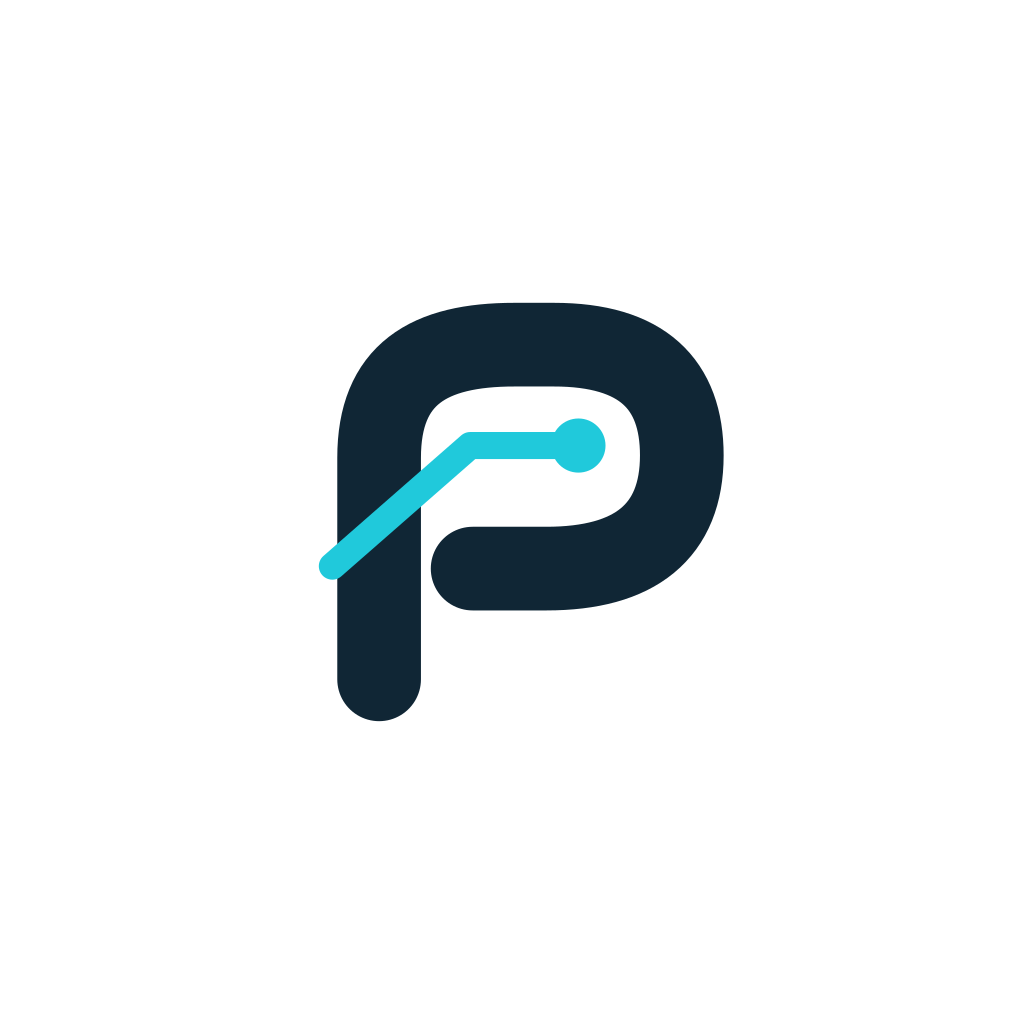
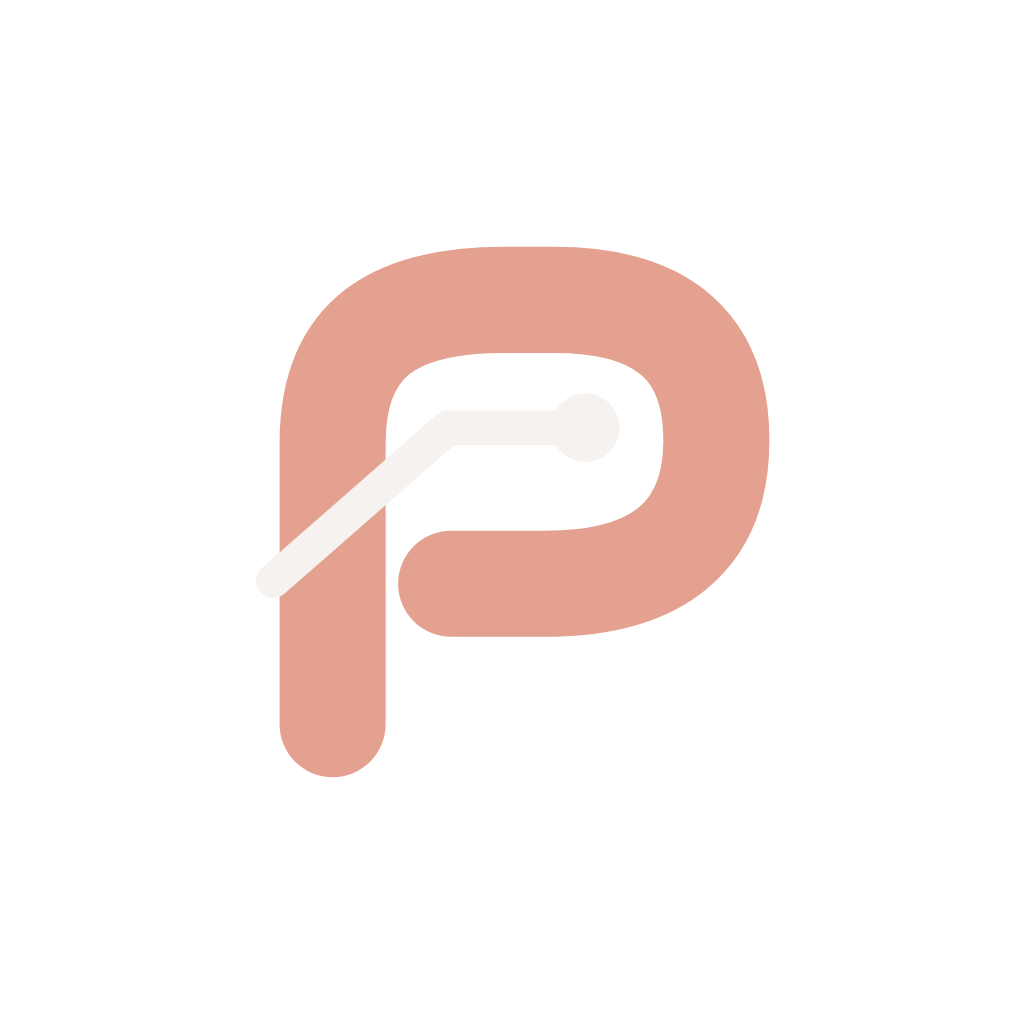
feat(brand): apply approved Porcelana palette
Porcelana (ink #202333, porcelain #F5F2EF, coral #E4A18F, deep coral
#9A4836) replaces navy/cyan, approved 2026-10-12 from the palette review.
Layout, typography, navigation and the P mark geometry are unchanged.

Tokens
- palettes: Porcelana light/dark sky, cards, accent; status colors kept
  semantic and distinct from coral (official green, stale gold, community
  teal, alert red). All card text >= 4.5:1 over every sky stop.
- brand: ink/storm/periwinkle/coral/deepCoral/porcelain; new `mark` token
  (ink tile, coral letter, porcelain spark) drives PulseMark.
- new `sheet` and `scrim` tokens replace the hardcoded quake-sheet colors.
  No hex literals remain in components.

Assets
- Recolored icon (full-bleed, opaque for iOS), splash icon, favicon,
  brandmark and both wordmarks with the same P geometry.
- Android: foreground recolored (the old navy P was invisible on its navy
  background), background #202333, monochrome themed icon restored,
  web favicon wired in app.json.

Docs
- DESIGN.md, AGENTS.md, CLAUDE.md, BRAND.md and README updated together so
  agents don't reintroduce navy/cyan; approval-required changes listed.
- Before/after screenshots in design/review/after/ (web renders, 412x915).

Verified: tsc clean, backend 26/26.

Claude-Session: https://claude.ai/code/session_015crqgdTP6nSXsm8uZjE6zx

Changed region(s): [[0.25, 0.2188, 0.75, 0.7812]]

diff --git a/src/theme/tokens.ts b/src/theme/tokens.ts
@@ -1,12 +1,23 @@
 // PanaPulse design tokens.
-// Direction: the original Hark-inspired atmosphere (rich gradient, soft translucent cards, big numerals),
-// recolored for PanaPulse: midnight navy, coastal cyan and softly atmospheric ocean light.
+// Direction: the original v0.2 atmosphere (rich gradient, soft translucent cards, big numerals) in the
+// approved "Porcelana" palette (2026-10-12): warm porcelain days, ink-to-ember evenings, deep coral accent.
+// Changing these values is a brand change and needs explicit approval (see DESIGN.md).
 // Status colors are fixed per theme and never derived from wallpaper / dynamic color.
 
 export const space = { xxs: 4, xs: 8, sm: 12, md: 16, lg: 20, xl: 24, xxl: 32 } as const;
 export const radius = { tile: 20, card: 30, pill: 999 } as const;
 
-export const brand = { navy: '#102635', cyan: '#20C9DB', porcelain: '#F9FCFD' } as const;
+export const brand = {
+  ink: '#202333',
+  storm: '#515D7C',
+  periwinkle: '#929BC5',
+  coral: '#E4A18F',
+  deepCoral: '#9A4836',
+  porcelain: '#F5F2EF',
+} as const;
+
+/** The P mark's three fills. Geometry lives in assets/brandmark.svg and components/pulse.tsx and never changes. */
+export const mark = { tile: brand.ink, letter: brand.coral, spark: brand.porcelain } as const;
 
 export const font = {
   regular: 'Manrope_400Regular',
@@ -48,55 +59,63 @@ export interface Palette {
   community: string;
   alert: string;
   unknown: string;
+  /** Bottom-sheet surface (quake detail). */
+  sheet: string;
+  /** Dim layer behind sheets and modals. */
+  scrim: string;
 }
 
 export const palettes: Record<ThemeName, Palette> = {
-  // Morning on the bay: clear sky into sea glass and warm sand.
+  // Morning in porcelain: warm off-white washing into a soft coral glow near the horizon.
   light: {
-    sky: ['#E4F3F7', '#B8DCE8', '#B9DCD9', '#EDD0C0'],
-    card: 'rgba(250,253,254,0.76)',
-    tile: 'rgba(255,255,255,0.64)',
-    tileStrong: 'rgba(255,255,255,0.90)',
-    line: 'rgba(16,38,53,0.11)',
-    ink: '#102635',
-    muted: 'rgba(16,38,53,0.67)',
-    faint: 'rgba(16,38,53,0.48)',
-    nav: 'rgba(249,252,253,0.96)',
-    navActive: '#102635',
-    navActiveInk: '#FFFFFF',
-    bubbleUser: '#102635',
-    bubbleUserInk: '#FFFFFF',
-    official: '#1E7A3E',
+    sky: ['#F5F2EF', '#EEE6E2', '#EAD3CA', '#E8B7A8'],
+    card: 'rgba(250,248,246,0.68)',
+    tile: 'rgba(250,248,246,0.70)',
+    tileStrong: 'rgba(252,250,248,0.88)',
+    line: 'rgba(32,35,51,0.09)',
+    ink: '#202333',
+    muted: 'rgba(32,35,51,0.66)',
+    faint: 'rgba(32,35,51,0.46)',
+    nav: 'rgba(247,245,243,0.95)',
+    navActive: '#202333',
+    navActiveInk: '#F5F2EF',
+    bubbleUser: '#202333',
+    bubbleUserInk: '#F5F2EF',
+    official: '#176A35',
     officialInk: '#FFFFFF',
-    stale: '#9A5B0C',
-    accent: '#087D90',
-    accentInk: '#FFFFFF',
-    community: '#5B45B8',
-    alert: '#B4372B',
-    unknown: 'rgba(16,38,53,0.62)',
+    stale: '#7D5A00',
+    accent: '#9A4836',
+    accentInk: '#F5F2EF',
+    community: '#0D6B64',
+    alert: '#A8322A',
+    unknown: 'rgba(32,35,51,0.58)',
+    sheet: '#EDE6E1',
+    scrim: 'rgba(32,35,51,0.45)',
   },
-  // Evening on the bay: navy into ocean and teal, city lights on a warm horizon.
+  // Evening: midnight ink into dusk plum, with an ember horizon.
   dark: {
-    sky: ['#102635', '#1A4661', '#2E6D7D', '#C38E86'],
-    card: 'rgba(12,31,46,0.82)',
-    tile: 'rgba(67,116,136,0.37)',
-    tileStrong: 'rgba(82,133,153,0.52)',
-    line: 'rgba(255,255,255,0.08)',
-    ink: '#F3F5FB',
-    muted: 'rgba(228,232,246,0.66)',
-    faint: 'rgba(228,232,246,0.44)',
-    nav: 'rgba(8,27,41,0.96)',
-    navActive: '#F9FCFD',
-    navActiveInk: '#102635',
-    bubbleUser: '#F9FCFD',
-    bubbleUserInk: '#102635',
+    sky: ['#202333', '#2A2B3F', '#463F55', '#B67F71'],
+    card: 'rgba(32,32,47,0.84)',
+    tile: 'rgba(150,130,150,0.24)',
+    tileStrong: 'rgba(170,150,165,0.38)',
+    line: 'rgba(245,242,239,0.08)',
+    ink: '#F5F2EF',
+    muted: 'rgba(245,242,239,0.68)',
+    faint: 'rgba(245,242,239,0.46)',
+    nav: 'rgba(26,26,39,0.96)',
+    navActive: '#F5F2EF',
+    navActiveInk: '#202333',
+    bubbleUser: '#F5F2EF',
+    bubbleUserInk: '#202333',
     official: '#7BD88F',
     officialInk: '#0B2A14',
-    stale: '#F2B56B',
-    accent: '#55DEEA',
-    accentInk: '#102635',
-    community: '#C3B1FF',
-    alert: '#FF8A7A',
-    unknown: 'rgba(228,232,246,0.55)',
+    stale: '#F2C14E',
+    accent: '#E4A18F',
+    accentInk: '#2A1813',
+    community: '#5FD4C4',
+    alert: '#FF8591',
+    unknown: 'rgba(245,242,239,0.56)',
+    sheet: '#2A2A3C',
+    scrim: 'rgba(12,12,20,0.55)',
   },
 };

diff --git a/src/components/pulse.tsx b/src/components/pulse.tsx
@@ -2,20 +2,20 @@ import React, { useState } from 'react';
 import { View } from 'react-native';
 import Svg, { Circle, Path, Rect } from 'react-native-svg';
 import { useApp } from '../state/AppContext';
-import { type } from '../theme/tokens';
+import { mark, type } from '../theme/tokens';
 import { Txt } from './ui';
 
 /** Custom PanaPulse P: the same connected-path geometry as the brand-kit app icon. */
 export function PulseMark({ size = 36 }: { size?: number }) {
   return (
     <Svg width={size} height={size} viewBox="0 0 256 256" accessibilityElementsHidden importantForAccessibility="no">
-      <Rect x={0} y={0} width={256} height={256} rx={62} fill="#102635" />
+      <Rect x={0} y={0} width={256} height={256} rx={62} fill={mark.tile} />
       <Path
         d="M 74 196 L 74 106 C 74 72 94 60 129 60 L 145 60 C 181 60 197 76 197 105 C 197 136 178 151 142 151 L 112 151"
-        stroke="#20C9DB" strokeWidth={34} strokeLinecap="round" strokeLinejoin="round" fill="none"
+        stroke={mark.letter} strokeWidth={34} strokeLinecap="round" strokeLinejoin="round" fill="none"
       />
-      <Path d="M 55 150 L 111 101 L 155 101" stroke="#F9FCFD" strokeWidth={11} strokeLinecap="round" strokeLinejoin="round" fill="none" />
-      <Circle cx={155} cy={101} r={11} fill="#F9FCFD" />
+      <Path d="M 55 150 L 111 101 L 155 101" stroke={mark.spark} strokeWidth={11} strokeLinecap="round" strokeLinejoin="round" fill="none" />
+      <Circle cx={155} cy={101} r={11} fill={mark.spark} />
     </Svg>
   );
 }

diff --git a/src/screens/Quakes.tsx b/src/screens/Quakes.tsx
@@ -123,16 +123,16 @@ function QuakeRow({ q, onPress }: { q: Quake; onPress: () => void }) {
 }
 
 export function QuakeSheet({ id, onClose }: { id: string | null; onClose: () => void }) {
-  const { c, t, lang, seismic, theme } = useApp();
+  const { c, t, lang, seismic } = useApp();
   const insets = useSafeAreaInsets();
   const q = seismic.earthquakes.find((x) => x.id === id) ?? null;
   return (
     <Modal visible={!!q} transparent animationType="slide" onRequestClose={onClose}>
-      <Pressable style={{ flex: 1, backgroundColor: 'rgba(8,12,24,0.45)' }} onPress={onClose} accessibilityLabel={t('close')} />
+      <Pressable style={{ flex: 1, backgroundColor: c.scrim }} onPress={onClose} accessibilityLabel={t('close')} />
       {q ? (
         <View
           style={{
-            backgroundColor: theme === 'dark' ? '#1E2740' : '#F4F6FB',
+            backgroundColor: c.sheet,
             borderTopLeftRadius: 32,
             borderTopRightRadius: 32,
             padding: space.lg,

diff --git a/docs/BRAND.md b/docs/BRAND.md
@@ -1,22 +1,51 @@
-# PanaPulse brand v0.2.1
+# PanaPulse brand: Porcelana
 
 **Brand essence:** Panama, connected every day. Calm, useful, precise.
+**Palette:** "Porcelana", approved 2026-10-12 (replaces the v0.2.1 navy/cyan). Review page and the two
+alternatives that weren't chosen: `design/review/` and `design/palettes/`.
+
+## Colors
+
+| Token (`brand` in `src/theme/tokens.ts`) | Hex | Use |
+|---|---|---|
+| `ink` | `#202333` | Text, mark tile, dark-mode sky top, active nav |
+| `porcelain` | `#F5F2EF` | Light-mode sky top, ink-on-dark text, mark spark |
+| `coral` | `#E4A18F` | Mark letter, dark-mode accent, horizon glow |
+| `deepCoral` | `#9A4836` | Light-mode accent (buttons, links, accent text). Passes AA on porcelain cards |
+| `storm` | `#515D7C` | Reserved, secondary brand color |
+| `periwinkle` | `#929BC5` | Reserved, secondary brand color |
+
+The live UI values per theme (sky stops, card translucency, accent) are in `palettes` in `src/theme/tokens.ts`.
+Every card text color clears WCAG AA (4.5:1) over every sky stop; recheck with
+`design/palettes/tools/contrast.py` before changing anything.
 
 ## Logo
 
-- Brandmark: `assets/brandmark.svg` (connected-path `P`)
-- Wordmarks: `assets/wordmark-light.svg` / `assets/wordmark-dark.svg`
-- App icon: `assets/icon.png` / Android `assets/android-icon-foreground.png`
-- Core colors: `#102635` navy, `#20C9DB` cyan, `#F9FCFD` porcelain
-
-For marketing, preserve clear space around the P equal to at least one quarter of its height. Do not skew it, add glows, embed other symbols, recolor status icons with brand cyan, or use a bright cyan wordmark over similarly light backgrounds.
+- Geometry: the connected-path `P` in `assets/brandmark.svg`. Never redraw, skew, add glows or swap it for a heartbeat icon.
+- App mark (`mark` in `tokens.ts`, used by `PulseMark`): ink tile, coral letter, porcelain spark.
+- `assets/brandmark.svg`: ink letter, deep-coral spark, for light backgrounds.
+- Wordmarks: `assets/wordmark-light.svg` (ink + deep coral) and `assets/wordmark-dark.svg` (porcelain + coral).
+  Never set light coral `#E4A18F` text on porcelain: it fails contrast. Use deep coral there.
+- App icons: `assets/icon.png` (full-bleed, no transparency, for iOS), `assets/android-icon-foreground.png` on
+  `#202333`, `assets/android-icon-monochrome.png` for Android 13+ themed icons, `assets/favicon.png` for web.
+- Clear space around the P: at least a quarter of its height.
 
 ## Application interface
 
-The home background may blend navy, bay-blue/teal, and a small amount of warm dusk color for atmosphere. Cyan is for branding/interaction, **not** for verification. Verification colors and labels remain independent and semantic (`src/theme/tokens.ts`).
+- Light: warm porcelain sky that glows coral near the horizon. Dark: midnight ink into dusk plum with an ember horizon.
+- Coral is brand and interaction only, **never** verification. Status colors are fixed and semantic:
+  official green, stale gold (dotted), community teal (dashed), alert red (with icon and label).
+  They were chosen to stay distinct from coral; don't move them toward it.
+- Cards are large, rounded and translucent. Don't shrink text to cram data into uniform boxes.
+- The four-tab bottom navigation is the product's own grammar, distinct from Hark's conversation-first nav.
+- Status always carries a text label; color is never the only signal.
 
-Cards are intentionally large and rounded. Avoid shrinking text to cram data into uniform boxes. The four-tab bottom navigation is the product's own visual grammar, distinct from Hark's conversation-first nav. Status labels must always have textual meaning.
+## Known risk
 
-## Assets and provenance
+Porcelain plus coral sits near the "cream and terracotta" look that AI-generated designs default to.
+What keeps it distinct: the ink sky at night, the P mark, the pulse rail and the bottom nav. Avoid adding serif
+display type, beige-on-beige cards or terracotta rules, which would push it into the cliché.
 
-These are bespoke concept assets, not trademark-cleared. Check wordmark and mark availability before public launch. Do not treat the logo-presentation image as a source asset; use the SVG/PNG files in `assets/`.
+## Provenance
+
+These are bespoke concept assets, not trademark-cleared. Check wordmark and mark availability before public launch.

diff --git a/DESIGN.md b/DESIGN.md
@@ -2,12 +2,12 @@
 
 ## Direction
 
-PanaPulse is a premium, bilingual consumer companion for life in Panama, not an operations dashboard. It combines a **calm ocean-at-dusk atmosphere** with local service information that is always explicit about provenance and freshness. The original Hark-inspired v0.2 demonstrated the desired airiness; the rejected flat v0.3 (`v0.3-parked`) is the counterexample. The functional `recovery` branch and `preview/b-refinement` inform the approved information architecture, not an entirely new design.
+PanaPulse is a premium, bilingual consumer companion for life in Panama, not an operations dashboard. It combines a **calm porcelain-to-ember atmosphere** with local service information that is always explicit about provenance and freshness. The original Hark-inspired v0.2 demonstrated the desired airiness; the rejected flat v0.3 (`v0.3-parked`) is the counterexample. The functional `recovery` branch and `preview/b-refinement` inform the approved information architecture, not an entirely new design.
 
 ## Identity
 
 - **Brand mark:** The connected-path letter P in `assets/brandmark.svg` and its matching app icon. Never substitute a generic heartbeat/ECG icon.
-- **Brand colors:** Midnight navy `#102635`, coastal cyan `#20C9DB`, porcelain `#F9FCFD`. The actual light/dark UI values live in `src/theme/tokens.ts`.
+- **Brand colors ("Porcelana", approved 2026-10-12):** ink `#202333`, porcelain `#F5F2EF`, coral `#E4A18F`, deep coral `#9A4836`; storm `#515D7C` and periwinkle `#929BC5` reserved. Details and rules in `docs/BRAND.md`; light/dark UI values in `src/theme/tokens.ts`. Navy/cyan is retired; don't reintroduce it.
 - **Typography:** Manrope, generous leading, clear hierarchy and tabular numerals for magnitudes/times. Spanish diacritics must render correctly.
 - **Atmosphere:** Broad gradient across the background; translucent but legible cards. Keep rounded surfaces, quiet depth, and warmth near the horizon. Avoid blur stacks, loud glow, and flat enterprise tables.
 - **No pixel-for-pixel Hark duplication:** Our logo, four-way bottom navigation, local pulse rail and commute timeline distinguish the product.
@@ -29,6 +29,10 @@ PanaPulse is a premium, bilingual consumer companion for life in Panama, not an 
 ## Honest status grammar
 
 Every data element includes source and update context; statuses distinguish official, community, stale and unavailable. Empty data is NOT proof that service is operating. Do not show fake transit ETAs, fake outage totals or unsourced aftershock probabilities. No advertisements or paywalls on emergency information.
+
+## Changes that need explicit approval
+
+Core branding (logo, mark colors, wordmark), navigation, typography, background treatment and any design-system token in `src/theme/tokens.ts`. Ordinary feature work does not. Capture before/after screenshots for any visual change.
 
 ## Agent precedence
 

diff --git a/design/palettes/README.md b/design/palettes/README.md
@@ -1,18 +1,21 @@
-# Palette previews (not approved)
+# Palette previews
+
+**Decision (2026-10-12): Porcelana (`p2-porcelana.tokens.ts`) was approved and is now `src/theme/tokens.ts`.**
+The other two stay here as reference. Brand rules: `docs/BRAND.md`.
 
 Three token-only variations of the current Home layout, built from the candidate brand colors
 `#202333` ink, `#515D7C` storm, `#929BC5` periwinkle, `#E4A18F` coral, `#F5F2EF` porcelain.
 
 | File | Name | Light accent | Dark accent | Notes |
 |---|---|---|---|---|
-| `p1-crepusculo.tokens.ts` | Crepúsculo | `#4C5775` storm | `#AEB6E6` periwinkle | Recommended. Periwinkle sky into a coral horizon |
-| `p2-porcelana.tokens.ts` | Porcelana | `#9A4836` deep coral | `#E4A18F` coral | Warm-led. Light mode risks the cream + terracotta cliché |
-| `p3-tinta.tokens.ts` | Tinta | `#9A4836` deep coral | `#E4A18F` coral | Cool-led, least like Hark, flattest dark mode |
+| `p1-crepusculo.tokens.ts` | Crepúsculo | `#4C5775` storm | `#AEB6E6` periwinkle | Not chosen. Periwinkle sky into a coral horizon |
+| `p2-porcelana.tokens.ts` | Porcelana | `#9A4836` deep coral | `#E4A18F` coral | **Approved.** Warm-led. Light mode sits near the cream + terracotta cliché (see BRAND.md) |
+| `p3-tinta.tokens.ts` | Tinta | `#9A4836` deep coral | `#E4A18F` coral | Not chosen. Cool-led, least like Hark, flattest dark mode |
 
 Status colors are shared: official `#176A35` / `#7BD88F`, stale `#7D5A00` / `#F2C14E`,
 community `#0D6B64` / `#5FD4C4` (moved off lilac), alert `#A8322A` / `#FF8591`.
 
-These files are references only. Nothing imports them, and `src/theme/tokens.ts` is unchanged on this branch.
+These files are references only; nothing imports them.
 
 ## Review
 
@@ -31,8 +34,6 @@ python3 tools/gen.py                 # regenerate p*.tokens.ts from the current 
 To preview one: copy it over `src/theme/tokens.ts`, swap the three hex colors in `src/components/pulse.tsx` with the
 ones in the file's "P mark" comment, run `npx expo start`, then `git checkout -- src`.
 
-## After approval
+## Applied
 
-One PR (`feat/palette-tokens`): write the chosen palette into `src/theme/tokens.ts`, move the mark colors into
-`brand` tokens, replace the literal colors in `Quakes.tsx`, update DESIGN.md, AGENTS.md, BRAND.md and CLAUDE.md
-together, then capture before/after screenshots.
+`feat/palette-tokens`: Porcelana written into `src/theme/tokens.ts`, mark colors moved into the `mark` token, quake sheet literals replaced by `sheet`/`scrim` tokens, icons and SVG brand assets recolored, DESIGN.md, AGENTS.md, BRAND.md and CLAUDE.md updated together. Before/after screenshots in `design/review/after/`.

diff --git a/AGENTS.md b/AGENTS.md
@@ -4,7 +4,7 @@ This is the existing Expo SDK 57 + Python FastAPI PanaPulse project, not a rewri
 
 Read `DESIGN.md`, `docs/BRAND.md`, `src/theme/tokens.ts`, `docs/ANTISLOP-RN.md`, and `docs/DATA_SOURCES.md` before editing.
 
-**Aesthetic:** Maintain the original premium atmospheric gradients and spacious cards. Brand is midnight navy / coastal cyan. Do not copy Hark screens exactly or reduce the product to a generic flat utility dashboard. `no-slop-ui` is inactive reference only.
+**Aesthetic:** Maintain the original premium atmospheric gradients and spacious cards. Brand palette is "Porcelana" (ink, porcelain, coral; see `docs/BRAND.md`). Navy/cyan is retired. Token, logo, nav, type and background changes need explicit approval. Do not copy Hark screens exactly or reduce the product to a generic flat utility dashboard. `no-slop-ui` is inactive reference only.
 
 **Behavior:** Do not invent transit ETAs, outages, forecast numbers or service states. Missing data is unknown, never normal. Keep Spanish / English and light / dark / auto. Preserve USGS/OAF, cautious utilities adapters and read-only guarded chat.
 

diff --git a/CLAUDE.md b/CLAUDE.md
@@ -9,6 +9,7 @@ Read `DESIGN.md`, `docs/BRAND.md`, `src/theme/tokens.ts`, `docs/ANTISLOP-RN.md` 
 - All data cards must surface their provenance and timestamps; snapshot times stay explicit.
 - Chat tools are read-only and mirrored in `src/chat/tools.ts` and `backend/panapulse/ask.py`.
 - Changes should be small, reviewable and backed by Python tests and a TS check.
+- Brand palette is "Porcelana" (`docs/BRAND.md`). Colors come only from `src/theme/tokens.ts`; no hex literals in components. Token, logo, nav, type or background changes need explicit approval.
 - The user's DESIGN.md overrides third-party aesthetic prohibitions. `no-slop-ui` in docs is inactive.
 - Do not commit API keys, `.env` or user location/report data.
 

diff --git a/README.md b/README.md
@@ -1,7 +1,7 @@
 # PanaPulse v0.2.1 (Brand integration)
 
 Spanish-first civic dashboard for Panama City. Expo SDK 57 (React Native 0.86), Android-first,
-premium atmospheric design with original navy/cyan PanaPulse branding, ES/EN, Auto/Light/Dark.
+premium atmospheric design in the PanaPulse "Porcelana" palette (see `docs/BRAND.md`), ES/EN, Auto/Light/Dark.
 
 ## What's real
 - **Sismos + pronóstico de réplicas:** USGS. Native builds fetch live every 5 min and fall back to the

diff --git a/design/PANAPULSE_DESIGN_RECOVERY.md b/design/PANAPULSE_DESIGN_RECOVERY.md
@@ -1,5 +1,7 @@
 # PanaPulse Visual Recovery Contract
 
+> Color direction below is superseded by the approved "Porcelana" palette (`docs/BRAND.md`, 2026-10-12). Everything else still applies.
+
 Version: 2026-10-12. Applies to Expo / React Native Android and iOS. Spanish (Panama) and English are supported, with Auto, Light, and Dark appearance modes.
 
 ## Problem to correct
